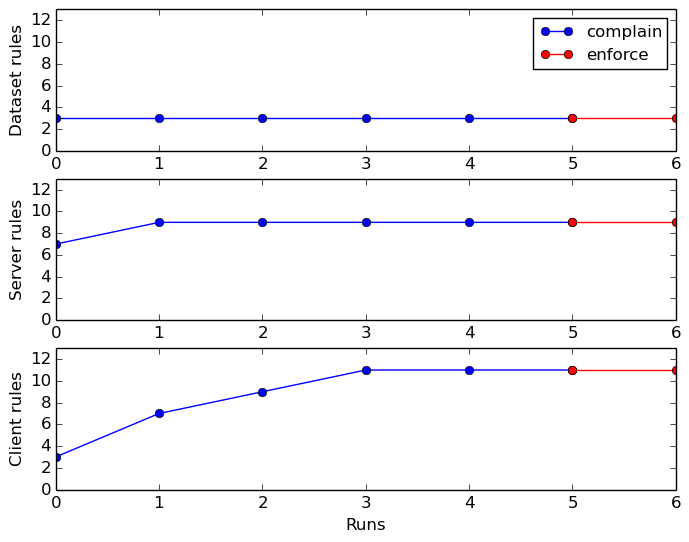
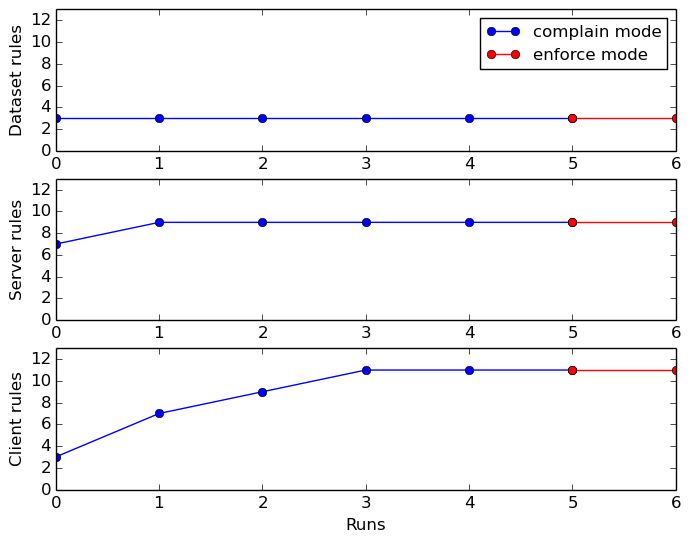
Fixed types plotting scripts too.

Changed region(s): [[0.6705, 0.0295, 0.9753, 0.1476]]

diff --git a/Benchmarks/media-streaming/Parser/metrics/plot_type_rules.py b/Benchmarks/media-streaming/Parser/metrics/plot_type_rules.py
@@ -122,39 +122,39 @@ with open("changes",'r') as infile:
         complain_enforce.append(line)
 
 compl_rules = range(complain_enforce[0]+1)
-enf_rules = range(complain_enforce[0],complain_enforce[1]+1)
-compl_audit = range(complain_enforce[1],complain_enforce[2]+1)
-enf_audit = range(complain_enforce[2],int(num_of_runs))
+enf_rules = range(complain_enforce[0],int(num_of_runs)) #complain_enforce[1]+1)
+#compl_audit = range(complain_enforce[1],complain_enforce[2]+1)
+#enf_audit = range(complain_enforce[2],int(num_of_runs))
 
 part_1a = []
 part_2a = []
-part_3a = []
-part_4a = []
+#part_3a = []
+#part_4a = []
 
-part_1b = []                                                           
+part_1b = []
 part_2b = []
-part_3b = []                                                           
-part_4b = []
+#part_3b = []
+#part_4b = []
 
 part_1c = []
 part_2c = []
-part_3c = []
-part_4c = []
+#part_3c = []
+#part_4c = []
 
 part_1d = []
 part_2d = []
-part_3d = []
-part_4d = []
+#part_3d = []
+#part_4d = []
 
 part_1e = []
 part_2e = []
-part_3e = []
-part_4e = []
+#part_3e = []
+#part_4e = []
 
 part_1f = []
 part_2f = []
-part_3f = []
-part_4f = []
+#part_3f = []
+#part_4f = []
 
 for x1 in range(complain_enforce[0]+1):
     part_1a.append(file_rules[x1])
@@ -164,7 +164,7 @@ for x1 in range(complain_enforce[0]+1):
     part_1e.append(signal[x1])
     part_1f.append(rlimit[x1])
 
-for x1 in range(complain_enforce[0], complain_enforce[1]+1):
+for x1 in range(complain_enforce[0], int(num_of_runs)): #complain_enforce[1]+1):
     part_2a.append(file_rules[x1])
     part_2b.append(capabilities[x1])
     part_2c.append(network[x1])     
@@ -172,28 +172,28 @@ for x1 in range(complain_enforce[0], complain_enforce[1]+1):
     part_2e.append(signal[x1])
     part_2f.append(rlimit[x1])
 
-for x1 in range(complain_enforce[1], complain_enforce[2]+1):
-    part_3a.append(file_rules[x1])
-    part_3b.append(capabilities[x1])
-    part_3c.append(network[x1])            
-    part_3d.append(mount[x1])                    
-    part_3e.append(signal[x1])
-    part_3f.append(rlimit[x1])
+#for x1 in range(complain_enforce[1], complain_enforce[2]+1):
+#    part_3a.append(file_rules[x1])
+#    part_3b.append(capabilities[x1])
+#    part_3c.append(network[x1])            
+#    part_3d.append(mount[x1])                    
+#    part_3e.append(signal[x1])
+#    part_3f.append(rlimit[x1])
 
-for x1 in range(complain_enforce[2], int(num_of_runs)):
-    part_4a.append(file_rules[x1])
-    part_4b.append(capabilities[x1])
-    part_4c.append(network[x1])            
-    part_4d.append(mount[x1])                    
-    part_4e.append(signal[x1])
-    part_4f.append(rlimit[x1])
+#for x1 in range(complain_enforce[2], int(num_of_runs)):
+#    part_4a.append(file_rules[x1])
+#    part_4b.append(capabilities[x1])
+#    part_4c.append(network[x1])            
+#    part_4d.append(mount[x1])                    
+#    part_4e.append(signal[x1])
+#    part_4f.append(rlimit[x1])
 
 #File rules
 ax1 = fig.add_subplot(321)
 ax1.plot(compl_rules, part_1a, label="file", color="b", marker='x')
 ax1.plot(enf_rules, part_2a, label="file", color="r", marker='x')
-ax1.plot(compl_audit, part_3a, label="file", color="g", marker='x')
-ax1.plot(enf_audit, part_4a, label="file", color="darkmagenta", marker='x')
+#ax1.plot(compl_audit, part_3a, label="file", color="g", marker='x')
+#ax1.plot(enf_audit, part_4a, label="file", color="darkmagenta", marker='x')
 ax1.grid()
 ax1.set_xlabel("Runs")
 ax1.set_ylabel(r"File rules")
@@ -203,8 +203,8 @@ ax1.set_ylim(0,max_value+2)
 ax2 = fig.add_subplot(322)
 ax2.plot(compl_rules, part_1b, label="capabilities", color="b", marker='x')
 ax2.plot(enf_rules, part_2b, label="capabilities", color="r", marker='x')
-ax2.plot(compl_audit, part_3b, label="capabilities", color="g", marker='x')
-ax2.plot(enf_audit, part_4b, label="capabilities", color="darkmagenta", marker='x')
+#ax2.plot(compl_audit, part_3b, label="capabilities", color="g", marker='x')
+#ax2.plot(enf_audit, part_4b, label="capabilities", color="darkmagenta", marker='x')
 ax2.grid()
 ax2.set_xlabel("Runs")
 ax2.set_ylabel(r"Capability rules")
@@ -214,8 +214,8 @@ ax2.set_ylim(0,max_value+2)
 ax3 = fig.add_subplot(323)                                             
 ax3.plot(compl_rules, part_1c, label="network", color="b", marker='x')
 ax3.plot(enf_rules, part_2c, label="network", color="r", marker='x')
-ax3.plot(compl_audit, part_3c, label="network", color="g", marker='x')
-ax3.plot(enf_audit, part_4c, label="network", color="darkmagenta", marker='x')
+#ax3.plot(compl_audit, part_3c, label="network", color="g", marker='x')
+#ax3.plot(enf_audit, part_4c, label="network", color="darkmagenta", marker='x')
 ax3.grid()                                                             
 ax3.set_xlabel("Runs")
 ax3.set_ylabel(r"Network rules")
@@ -225,8 +225,8 @@ ax3.set_ylim(0,max_value+2)
 ax4 = fig.add_subplot(324)                                             
 ax4.plot(compl_rules, part_1d, label="mount", color="b", marker='x')
 ax4.plot(enf_rules, part_2d, label="mount", color="r", marker='x')
-ax4.plot(compl_audit, part_3d, label="mount", color="g", marker='x')
-ax4.plot(enf_audit, part_4d, label="mount", color="darkmagenta", marker='x')
+#ax4.plot(compl_audit, part_3d, label="mount", color="g", marker='x')
+#ax4.plot(enf_audit, part_4d, label="mount", color="darkmagenta", marker='x')
 ax4.grid()                                                             
 ax4.set_xlabel("Runs")
 ax4.set_ylabel(r"Mount rules")
@@ -236,8 +236,8 @@ ax4.set_ylim(0,max_value+2)
 ax5 = fig.add_subplot(325)                                             
 ax5.plot(compl_rules, part_1e, label="signal", color="b", marker='x')
 ax5.plot(enf_rules, part_2e, label="signal", color="r", marker='x')
-ax5.plot(compl_audit, part_3e, label="signal", color="g", marker='x')
-ax5.plot(enf_audit, part_4e, label="signal", color="darkmagenta", marker='x')
+#ax5.plot(compl_audit, part_3e, label="signal", color="g", marker='x')
+#ax5.plot(enf_audit, part_4e, label="signal", color="darkmagenta", marker='x')
 ax5.grid()                                                             
 ax5.set_xlabel("Runs")
 ax5.set_ylabel(r"Signal rules")
@@ -247,8 +247,8 @@ ax5.set_ylim(0,max_value+2)
 ax6 = fig.add_subplot(326)                                             
 ax6.plot(compl_rules, part_1f, label="rlimit", color="b", marker='x')
 ax6.plot(enf_rules, part_2f, label="rlimit", color="r", marker='x')
-ax6.plot(compl_audit, part_3f, label="rlimit", color="g", marker='x')
-ax6.plot(enf_audit, part_4f, label="rlimit", color="darkmagenta", marker='x')
+#ax6.plot(compl_audit, part_3f, label="rlimit", color="g", marker='x')
+#ax6.plot(enf_audit, part_4f, label="rlimit", color="darkmagenta", marker='x')
 ax6.grid()                                                             
 ax6.set_xlabel("Runs")
 ax6.set_ylabel(r"Rlimit rules")

diff --git a/Parser/metrics/plot_type_rules.py b/Parser/metrics/plot_type_rules.py
@@ -122,39 +122,39 @@ with open("changes",'r') as infile:
         complain_enforce.append(line)
 
 compl_rules = range(complain_enforce[0]+1)
-enf_rules = range(complain_enforce[0],complain_enforce[1]+1)
-compl_audit = range(complain_enforce[1],complain_enforce[2]+1)
-enf_audit = range(complain_enforce[2],int(num_of_runs))
+enf_rules = range(complain_enforce[0],int(num_of_runs)) #complain_enforce[1]+1)
+#compl_audit = range(complain_enforce[1],complain_enforce[2]+1)
+#enf_audit = range(complain_enforce[2],int(num_of_runs))
 
 part_1a = []
 part_2a = []
-part_3a = []
-part_4a = []
+#part_3a = []
+#part_4a = []
 
-part_1b = []                                                           
+part_1b = []
 part_2b = []
-part_3b = []                                                           
-part_4b = []
+#part_3b = []
+#part_4b = []
 
 part_1c = []
 part_2c = []
-part_3c = []
-part_4c = []
+#part_3c = []
+#part_4c = []
 
 part_1d = []
 part_2d = []
-part_3d = []
-part_4d = []
+#part_3d = []
+#part_4d = []
 
 part_1e = []
 part_2e = []
-part_3e = []
-part_4e = []
+#part_3e = []
+#part_4e = []
 
 part_1f = []
 part_2f = []
-part_3f = []
-part_4f = []
+#part_3f = []
+#part_4f = []
 
 for x1 in range(complain_enforce[0]+1):
     part_1a.append(file_rules[x1])
@@ -164,7 +164,7 @@ for x1 in range(complain_enforce[0]+1):
     part_1e.append(signal[x1])
     part_1f.append(rlimit[x1])
 
-for x1 in range(complain_enforce[0], complain_enforce[1]+1):
+for x1 in range(complain_enforce[0], int(num_of_runs)): #complain_enforce[1]+1):
     part_2a.append(file_rules[x1])
     part_2b.append(capabilities[x1])
     part_2c.append(network[x1])     
@@ -172,28 +172,28 @@ for x1 in range(complain_enforce[0], complain_enforce[1]+1):
     part_2e.append(signal[x1])
     part_2f.append(rlimit[x1])
 
-for x1 in range(complain_enforce[1], complain_enforce[2]+1):
-    part_3a.append(file_rules[x1])
-    part_3b.append(capabilities[x1])
-    part_3c.append(network[x1])            
-    part_3d.append(mount[x1])                    
-    part_3e.append(signal[x1])
-    part_3f.append(rlimit[x1])
+#for x1 in range(complain_enforce[1], complain_enforce[2]+1):
+#    part_3a.append(file_rules[x1])
+#    part_3b.append(capabilities[x1])
+#    part_3c.append(network[x1])            
+#    part_3d.append(mount[x1])                    
+#    part_3e.append(signal[x1])
+#    part_3f.append(rlimit[x1])
 
-for x1 in range(complain_enforce[2], int(num_of_runs)):
-    part_4a.append(file_rules[x1])
-    part_4b.append(capabilities[x1])
-    part_4c.append(network[x1])            
-    part_4d.append(mount[x1])                    
-    part_4e.append(signal[x1])
-    part_4f.append(rlimit[x1])
+#for x1 in range(complain_enforce[2], int(num_of_runs)):
+#    part_4a.append(file_rules[x1])
+#    part_4b.append(capabilities[x1])
+#    part_4c.append(network[x1])            
+#    part_4d.append(mount[x1])                    
+#    part_4e.append(signal[x1])
+#    part_4f.append(rlimit[x1])
 
 #File rules
 ax1 = fig.add_subplot(321)
 ax1.plot(compl_rules, part_1a, label="file", color="b", marker='x')
 ax1.plot(enf_rules, part_2a, label="file", color="r", marker='x')
-ax1.plot(compl_audit, part_3a, label="file", color="g", marker='x')
-ax1.plot(enf_audit, part_4a, label="file", color="darkmagenta", marker='x')
+#ax1.plot(compl_audit, part_3a, label="file", color="g", marker='x')
+#ax1.plot(enf_audit, part_4a, label="file", color="darkmagenta", marker='x')
 ax1.grid()
 ax1.set_xlabel("Runs")
 ax1.set_ylabel(r"File rules")
@@ -203,8 +203,8 @@ ax1.set_ylim(0,max_value+2)
 ax2 = fig.add_subplot(322)
 ax2.plot(compl_rules, part_1b, label="capabilities", color="b", marker='x')
 ax2.plot(enf_rules, part_2b, label="capabilities", color="r", marker='x')
-ax2.plot(compl_audit, part_3b, label="capabilities", color="g", marker='x')
-ax2.plot(enf_audit, part_4b, label="capabilities", color="darkmagenta", marker='x')
+#ax2.plot(compl_audit, part_3b, label="capabilities", color="g", marker='x')
+#ax2.plot(enf_audit, part_4b, label="capabilities", color="darkmagenta", marker='x')
 ax2.grid()
 ax2.set_xlabel("Runs")
 ax2.set_ylabel(r"Capability rules")
@@ -214,8 +214,8 @@ ax2.set_ylim(0,max_value+2)
 ax3 = fig.add_subplot(323)                                             
 ax3.plot(compl_rules, part_1c, label="network", color="b", marker='x')
 ax3.plot(enf_rules, part_2c, label="network", color="r", marker='x')
-ax3.plot(compl_audit, part_3c, label="network", color="g", marker='x')
-ax3.plot(enf_audit, part_4c, label="network", color="darkmagenta", marker='x')
+#ax3.plot(compl_audit, part_3c, label="network", color="g", marker='x')
+#ax3.plot(enf_audit, part_4c, label="network", color="darkmagenta", marker='x')
 ax3.grid()                                                             
 ax3.set_xlabel("Runs")
 ax3.set_ylabel(r"Network rules")
@@ -225,8 +225,8 @@ ax3.set_ylim(0,max_value+2)
 ax4 = fig.add_subplot(324)                                             
 ax4.plot(compl_rules, part_1d, label="mount", color="b", marker='x')
 ax4.plot(enf_rules, part_2d, label="mount", color="r", marker='x')
-ax4.plot(compl_audit, part_3d, label="mount", color="g", marker='x')
-ax4.plot(enf_audit, part_4d, label="mount", color="darkmagenta", marker='x')
+#ax4.plot(compl_audit, part_3d, label="mount", color="g", marker='x')
+#ax4.plot(enf_audit, part_4d, label="mount", color="darkmagenta", marker='x')
 ax4.grid()                                                             
 ax4.set_xlabel("Runs")
 ax4.set_ylabel(r"Mount rules")
@@ -236,8 +236,8 @@ ax4.set_ylim(0,max_value+2)
 ax5 = fig.add_subplot(325)                                             
 ax5.plot(compl_rules, part_1e, label="signal", color="b", marker='x')
 ax5.plot(enf_rules, part_2e, label="signal", color="r", marker='x')
-ax5.plot(compl_audit, part_3e, label="signal", color="g", marker='x')
-ax5.plot(enf_audit, part_4e, label="signal", color="darkmagenta", marker='x')
+#ax5.plot(compl_audit, part_3e, label="signal", color="g", marker='x')
+#ax5.plot(enf_audit, part_4e, label="signal", color="darkmagenta", marker='x')
 ax5.grid()                                                             
 ax5.set_xlabel("Runs")
 ax5.set_ylabel(r"Signal rules")
@@ -247,8 +247,8 @@ ax5.set_ylim(0,max_value+2)
 ax6 = fig.add_subplot(326)                                             
 ax6.plot(compl_rules, part_1f, label="rlimit", color="b", marker='x')
 ax6.plot(enf_rules, part_2f, label="rlimit", color="r", marker='x')
-ax6.plot(compl_audit, part_3f, label="rlimit", color="g", marker='x')
-ax6.plot(enf_audit, part_4f, label="rlimit", color="darkmagenta", marker='x')
+#ax6.plot(compl_audit, part_3f, label="rlimit", color="g", marker='x')
+#ax6.plot(enf_audit, part_4f, label="rlimit", color="darkmagenta", marker='x')
 ax6.grid()                                                             
 ax6.set_xlabel("Runs")
 ax6.set_ylabel(r"Rlimit rules")

diff --git a/Benchmarks/media-streaming/Parser/metrics/plot_rules_total.py b/Benchmarks/media-streaming/Parser/metrics/plot_rules_total.py
@@ -102,20 +102,20 @@ for x1 in range(complain_enforce[0], int(num_of_runs)): #complain_enforce[1]+1):
 #    part_4c.append(rules[2][x1])
 
 ax1 = fig.add_subplot(311)
-ax1.plot(compl_rules, part_1a, label="complain", color="blue", marker='o') 
-ax1.plot(enf_rules, part_2a, label="enforce", color="red", marker='o')
+ax1.plot(compl_rules, part_1a, label="complain mode", color="blue", marker='o') 
+ax1.plot(enf_rules, part_2a, label="enforce mode", color="red", marker='o')
 #ax1.plot(compl_audit, part_3a, label="complain audit", color="green", marker='x')
 #ax1.plot(enf_audit, part_4a, label="enforce audit", color="darkmagenta", marker='x')
 
 ax2 = fig.add_subplot(312)
-ax2.plot(compl_rules, part_1b, label="complain", color="blue", marker='o')
-ax2.plot(enf_rules, part_2b, label="enforce", color="red", marker='o')
+ax2.plot(compl_rules, part_1b, label="complain mode", color="blue", marker='o')
+ax2.plot(enf_rules, part_2b, label="enforce mode", color="red", marker='o')
 #ax2.plot(compl_audit, part_3b, label="complain audit", color="green", marker='x')
 #ax2.plot(enf_audit, part_4b, label="enforce audit", color="darkmagenta", marker='x')
 
 ax3 = fig.add_subplot(313)
-ax3.plot(compl_rules, part_1c, label="complain", color="blue", marker='o')
-ax3.plot(enf_rules, part_2c, label="enforce", color="red", marker='o')
+ax3.plot(compl_rules, part_1c, label="complain mode", color="blue", marker='o')
+ax3.plot(enf_rules, part_2c, label="enforce mode", color="red", marker='o')
 #ax3.plot(compl_audit, part_3c, label="complain audit", color="green", marker='x')
 #ax3.plot(enf_audit, part_4c, label="enforce audit", color="darkmagenta", marker='x')
 

diff --git a/Parser/metrics/plot_rules_total.py b/Parser/metrics/plot_rules_total.py
@@ -102,20 +102,20 @@ for x1 in range(complain_enforce[0], int(num_of_runs)): #complain_enforce[1]+1):
 #    part_4c.append(rules[2][x1])
 
 ax1 = fig.add_subplot(311)
-ax1.plot(compl_rules, part_1a, label="complain", color="blue", marker='o') 
-ax1.plot(enf_rules, part_2a, label="enforce", color="red", marker='o')
+ax1.plot(compl_rules, part_1a, label="complain mode", color="blue", marker='o') 
+ax1.plot(enf_rules, part_2a, label="enforce mode", color="red", marker='o')
 #ax1.plot(compl_audit, part_3a, label="complain audit", color="green", marker='x')
 #ax1.plot(enf_audit, part_4a, label="enforce audit", color="darkmagenta", marker='x')
 
 ax2 = fig.add_subplot(312)
-ax2.plot(compl_rules, part_1b, label="complain", color="blue", marker='o')
-ax2.plot(enf_rules, part_2b, label="enforce", color="red", marker='o')
+ax2.plot(compl_rules, part_1b, label="complain mode", color="blue", marker='o')
+ax2.plot(enf_rules, part_2b, label="enforce mode", color="red", marker='o')
 #ax2.plot(compl_audit, part_3b, label="complain audit", color="green", marker='x')
 #ax2.plot(enf_audit, part_4b, label="enforce audit", color="darkmagenta", marker='x')
 
 ax3 = fig.add_subplot(313)
-ax3.plot(compl_rules, part_1c, label="complain", color="blue", marker='o')
-ax3.plot(enf_rules, part_2c, label="enforce", color="red", marker='o')
+ax3.plot(compl_rules, part_1c, label="complain mode", color="blue", marker='o')
+ax3.plot(enf_rules, part_2c, label="enforce mode", color="red", marker='o')
 #ax3.plot(compl_audit, part_3c, label="complain audit", color="green", marker='x')
 #ax3.plot(enf_audit, part_4c, label="enforce audit", color="darkmagenta", marker='x')
 
